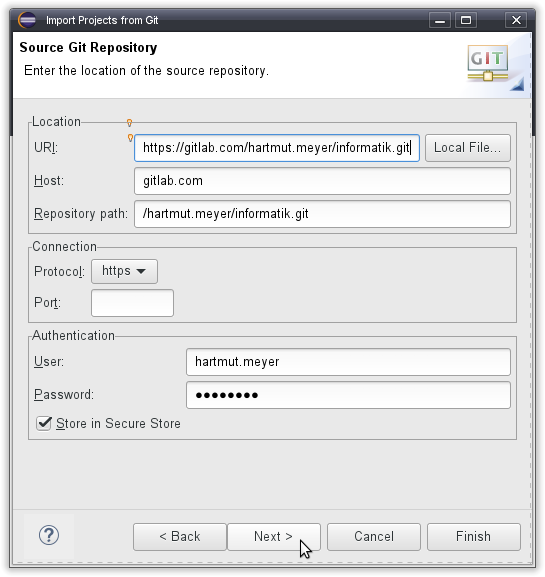
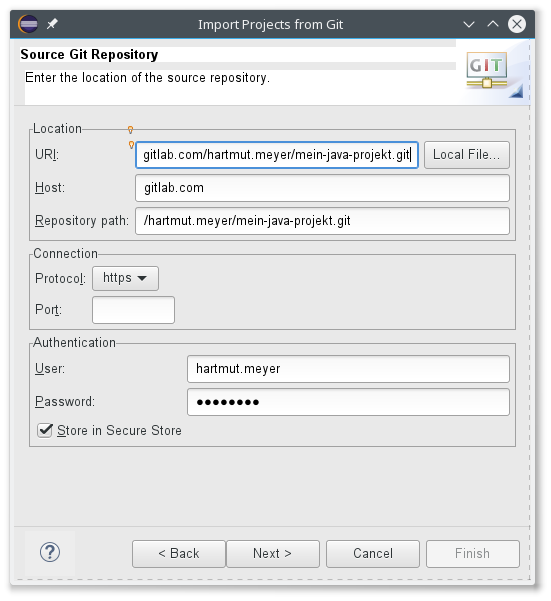
01_Vorbereitung: Einbindung des eigenen Git Repositories konkretisiert

Changed region(s): [[0.0, 0.0, 0.9982, 0.9983]]

diff --git a/inf/SEKII/01_Vorbereitung/01_Eclipse.tex b/inf/SEKII/01_Vorbereitung/01_Eclipse.tex
@@ -226,7 +226,7 @@ Häkchen setzen vor \myPMI{Refresh using native hooks or polling}.
 
 \begin{figure}[h]
   \centering
-  \includegraphics[width=0.84\textwidth]{./inf/SEKII/01_Vorbereitung/Eclipse-Workspace-Preferences.png}
+  \includegraphics[width=0.83\textwidth]{./inf/SEKII/01_Vorbereitung/Eclipse-Workspace-Preferences.png}
   \caption{Preferences-Dialog für die Workspace-Einstellungen}
   \label{fig:eclipse-workspace-preferences}
 \end{figure}
@@ -243,7 +243,8 @@ eingestellt werden.
 \begin{figure}[h]
   \centering
   \includegraphics[width=0.84\textwidth]{./inf/SEKII/01_Vorbereitung/Eclipse-Git-Configuration-1.png}
-  \caption{Standard-Verzeichnis für lokale Git-Repositories wählen}
+  \caption{Standard-Verzeichnis für lokale Git-Repositories wählen (dort musst
+  du den Ort für \emph{dein} Workspace Verzeichnis angeben)}
   \label{fig:eclipse-git-configuration-1}
 \end{figure}
 
@@ -261,25 +262,76 @@ Damit ist Eclipse grundsätzlich für die Arbeit mit Git-Repositories vorbereite
 Um nun dein eigenes Repository in Eclipse nutzen zu können, musst du einige
 wenige Konfigurationsschritte durchführen:
 
+\subsubsection{Fall 1: Erstmaliges Einbinden eines zuvor beim Git-Hoster
+angelegten Repositories (machst du typischerweise in der Schule)}
+
+Wenn du bisher noch kein eigenes Java-Projekt angelegt hast, dann bist du hier
+richtig. Ansonsten folgst du bitte den Anweisungen im nächsten Abschnitt
+(Fall 2).
+
 \myPMI{File} $\rightarrow$ \myPMI{Import\ldots} $\rightarrow$ \myPMI{Git}
 $\rightarrow$ \myPMI{Projects from Git} $\rightarrow$ \myPMI{Next} $\rightarrow$
 \myPMI{Clone URI} $\rightarrow$ \myPMI{Next} Per Coyp \& Paste die URI
 (https://gitlab.com/\ldots) einfügen sowie dein Benutzername und Passwort für
-GitLab(!) (Abbildung \ref{fig:import-project-from-git}) $\rightarrow$
-\myPMI{Next} $\rightarrow$ \myPMI{Next} $\rightarrow$ \myPMI{Next} $\rightarrow$
-\myPMI{Finish} $\rightarrow$ \myPMI{Java} $\rightarrow$ \myPMI{Java Project}
+GitLab(!) (Abbildung \ref{fig:import-project-from-git})
+
+\begin{figure}[h]
+  \centering
+   \includegraphics[width=0.70\textwidth]{./inf/SEKII/01_Vorbereitung/Import_Project_from_Git.png}
+   \caption{Ein eigenes Java-Projekt in Eclipse anlegen (erster Schritt)}
+   \label{fig:import-project-from-git}
+\end{figure}
+
+Von dort aus weiter: $\rightarrow$ \myPMI{Next} $\rightarrow$ \myPMI{Next}
+$\rightarrow$ \myPMI{Next} 
+
+(Abbildung \ref{fig:import-project-from-git-using-wizard-1})
+
+\begin{figure}[h]
+  \centering
+   \includegraphics[width=0.70\textwidth]{./inf/SEKII/01_Vorbereitung/Import_Project_from_Git_using_Project_Wizard_1.png}
+   \caption{Ein eigenes Java-Projekt in Eclipse anlegen (using Project Wizard)}
+   \label{fig:import-project-from-git-using-wizard-1}
+\end{figure}
+
+$\rightarrow$ \myPMI{Finish} $\rightarrow$ \myPMI{Java} $\rightarrow$
+\myPMI{Java Project}
+
+(Abbildung \ref{fig:import-project-from-git-using-wizard-2})
+
+\begin{figure}[h]
+  \centering
+   \includegraphics[width=0.70\textwidth]{./inf/SEKII/01_Vorbereitung/Import_Project_from_Git_using_Project_Wizard_2.png}
+   \caption{Ein eigenes Java-Projekt in Eclipse anlegen (Project Wizard: Java Project)}
+   \label{fig:import-project-from-git-using-wizard-2}
+\end{figure}
+
 $\rightarrow$ \myPMI{Next}  $\rightarrow$ Bei \myPMI{Project Name:} einen Namen
 für dein Projekt wählen (kann, muss aber nicht identisch sein, mit dem Namen,
 den du bei GitLab für dein Projekt gewählt hast) \myPMI{Next} $\rightarrow$
 \myPMI{Finish}
 
+\afterpage{\clearpage}
+
+\subsubsection{Fall 2: Du hast dein eigenes Git-Repository bereits einmal in
+Eclipse eingebunden und dort als Java-Projekt angelegt}
+
+Wenn du dein eigenes Java-Projekt bereits einmal in dein damit
+verknüpftes Git-Repository \glqq geschoben\grqq\ (\myPMI{Commit and Push}) hast,
+aber es auf dem Computer an dem du gerade arbeitest (zum Beispiel zu Hause) noch
+nicht in Eclipse eingebunden ist, dann kannst du es leicht aus deinem
+Git-Repository importieren. Wichtig ist dabei, dass du dabei nicht noch einmal
+den Projekt-Wizard von Eclipse benutzt, sondern einfach das bereits bestehende
+Eclipse-Projekt aus dem Git-Repository importierst. 
+
 \begin{figure}[h]
   \centering
-   \includegraphics[width=0.70\textwidth]{./inf/SEKII/01_Vorbereitung/Import_Project_from_Git.png}
-   \caption{Ein eigenes Java-Projekt in Eclipse anlegen}
-   \label{fig:import-project-from-git}
+   \includegraphics[width=0.70\textwidth]{./inf/SEKII/01_Vorbereitung/Import_Project_from_Git_Import_Existing_Eclipse_Project.png}
+   \caption{Ein eigenes Java-Projekt in Eclipse anlegen (Import existing Eclipse projects)}
+   \label{fig:import-project-from-git-import-existing-project}
 \end{figure}
 
+Abgesehen davon folgst du der Anleitung aus dem letzten Abschnitt (Fall 1).
 
 Jetzt können lokale Änderungen in das Online-Repository geschrieben ("Commit
 and Push") werden und umgekehrt das lokale Repository auf den Stand des
